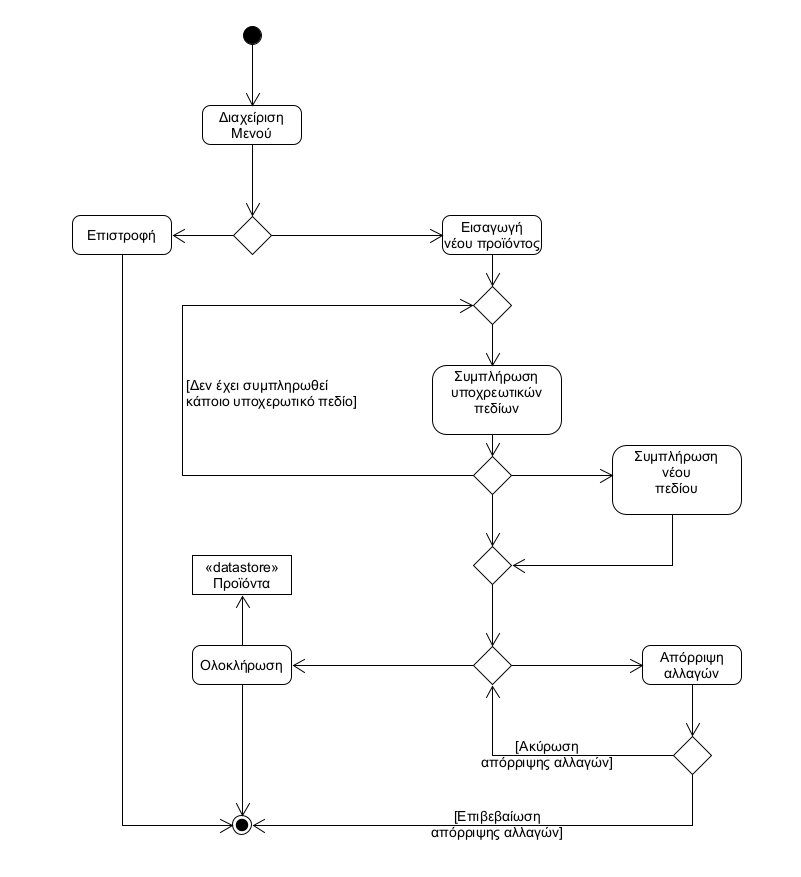
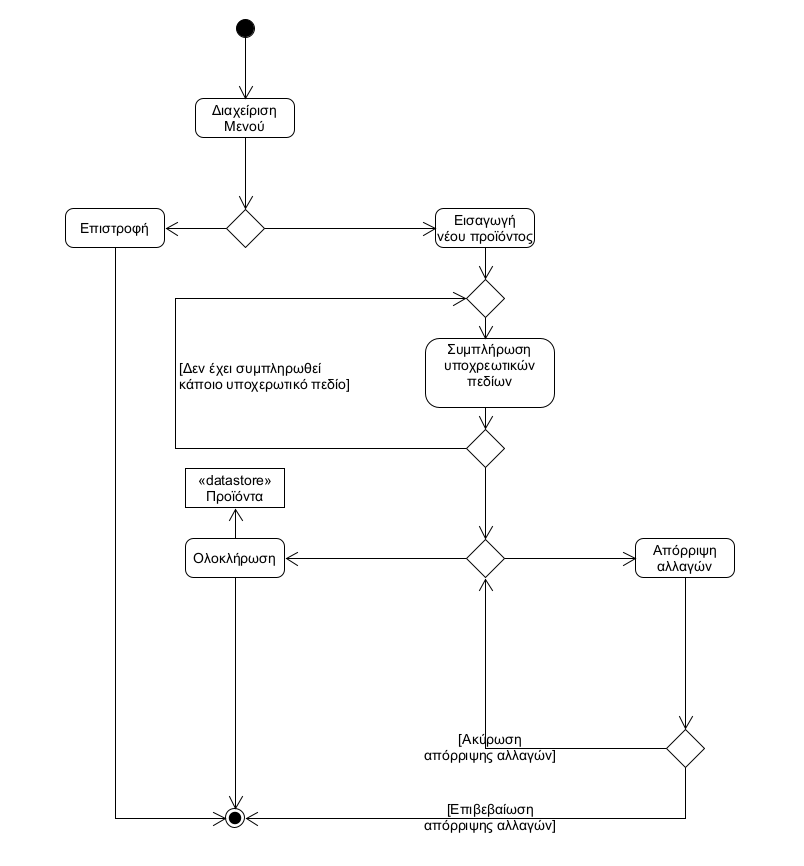
modify uc5 desc and activity diagram

diff --git a/docs/markdown/uc5-manager-menu-management.md b/docs/markdown/uc5-manager-menu-management.md
@@ -13,7 +13,7 @@
 ### Βασική Ροή
 1. Από το μενού της διεύθυνσης, επιλέγει "Διαχείριση Μενού".
 2. Διαλέγει την επιλογή "Εισαγωγή νέου προϊόντος".
-3. Συμπληρώνει τα υποχρεωτικά πεδία (Όνομα, τιμή κ.ά).
+3. Συμπληρώνει τα υποχρεωτικά πεδία (Κατηγορία, Όνομα, Τιμή).
 4. Το σύστημα εμφανίζει την επιλογή "Ολοκλήρωση".
 5. Η διεύθυνση εισάγει το προϊόν πατώντας το κουμπί "Ολοκλήρωση".
 6. Το σύστημα αποθηκεύει το νέο προϊόν και επιστρέφει στο μενού της διεύθυνσης.
@@ -23,12 +23,7 @@
 *2α. Η διεύθυνση πατάει το κουμπί "Επιστροφή"*
 1. Το σύστημα επιστρέφει στο μενού της διεύθυνσης και η περίπτωση χρήσης τερματίζεται.
 
-*5α. Η διεύθυνση διαλέγει το κουμπί "Προσθήκη νέου πεδίου"*
-1. Εμφανίζεται νέο πεδίο.
-2. Η διεύθυνση εισάγει όνομα πεδίου και τιμή πεδίου.
-3. Η περίπτωση χρήσης επιστρέφει στο βήμα 5 της βασικής ροής.
-
-*\* Η διεύθυνση πατάει το κουμπί "Απόρριψη αλλαγών"*
+*5α. Η διεύθυνση πατάει το κουμπί "Απόρριψη αλλαγών"*
 1. Το σύστημα εμφανίζει μήνυμα επιβεβαίωσης απόρριψης αλλαγών.
 2. Η διεύθυνση διαλέγει "Απόρριψη αλλαγών".
 
@@ -66,11 +61,6 @@
     1. Η περίπτωση χρήσης επιστρέφει στο βήμα 4 της βασικής ροής.
 3. Το προϊόν διαγράφεται και η περίπτωση χρήσης επιστρέφει στο βήμα 2 της βασικής ροής.
 
-*4γ. Η διεύθυνση διαλέγει το κουμπί "Προσθήκη νέου πεδίου"*
-1. Εμφανίζεται νέο πεδίο.
-2. Η διεύθυνση εισάγει όνομα πεδίου και τιμή πεδίου.
-3. Η περίπτωση χρήσης επιστρέφει στο βήμα 4 της βασικής ροής.
-
 *5α. Η διεύθυνση πατάει το κουμπί "Απόρριψη Αλλαγών"*
 1. Το σύστημα εμφανίζει μήνυμα επιβεβαίωσης απόρριψης αλλαγών.
 2. Η διεύθυνση διαλέγει "Απόρριψη Αλλαγών".
@@ -82,5 +72,5 @@
 *7α. Η διεύθυνση διαλέγει "Ακύρωση"*
 1. Η περίπτωση χρήσης επιστρέφει στο βήμα 4 της βασικής ροής.
 
-### Activity Diagram 
+### Activity Diagram
 ![ΠΧ5 - Διάγραμμα Δραστηριότητας](../markdown/uml/requirements/activity-manage-menu.png)
